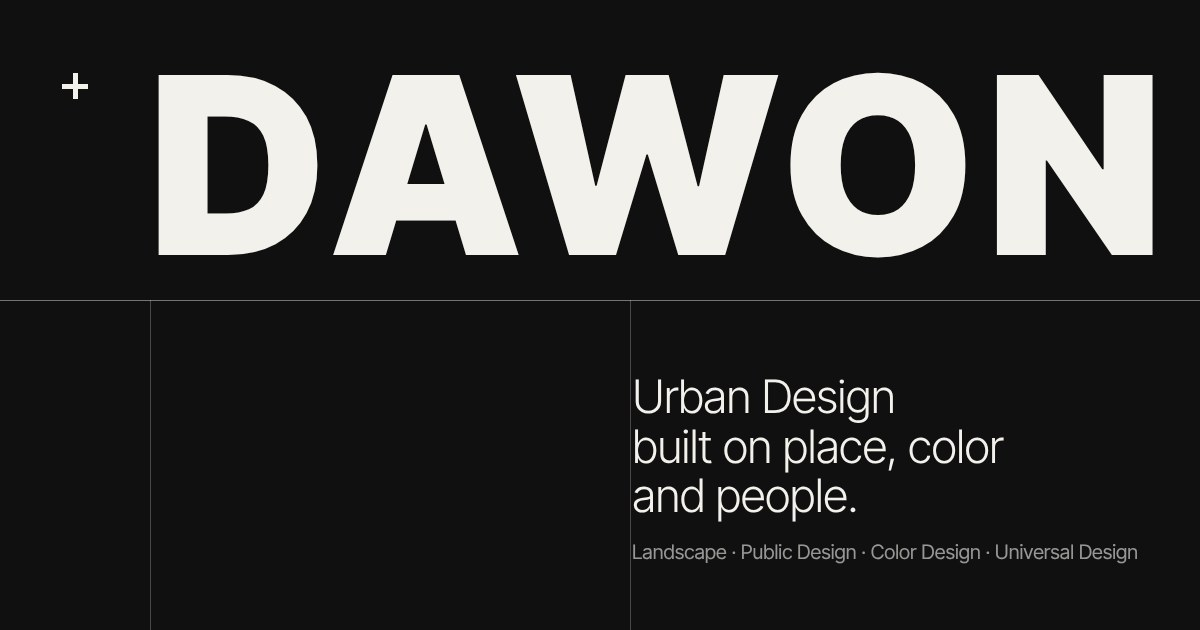
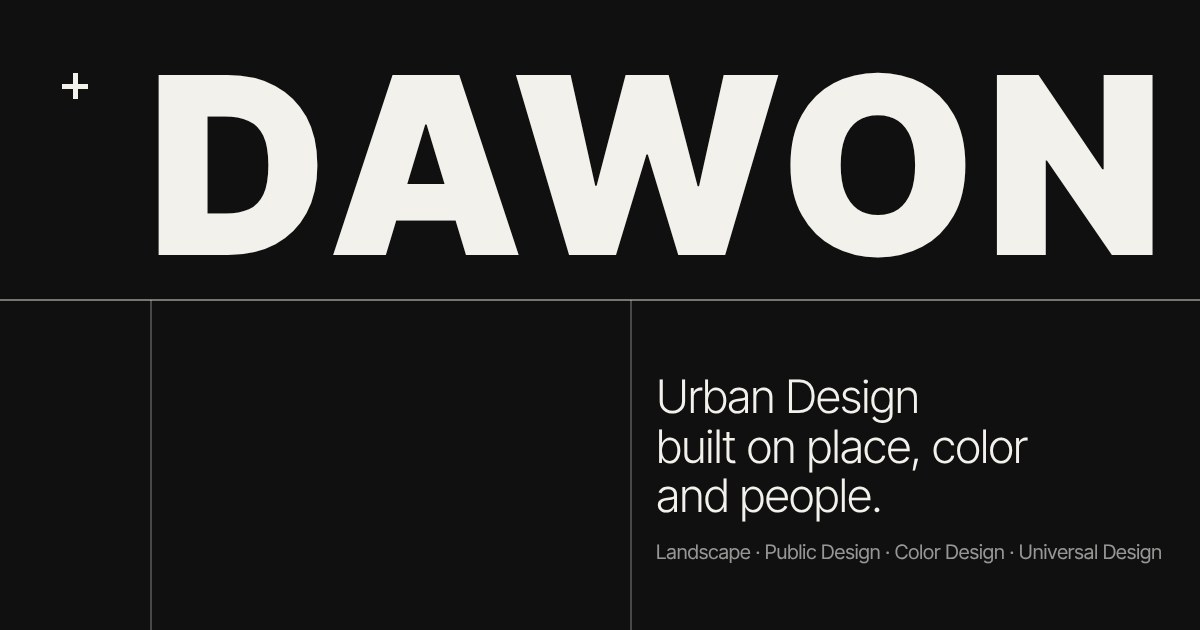
카톡 썸네일: 선 두께 1.5배, 글자 4줄을 선에서 더 띄움 (홈페이지 화면은 변경 없음)
Claude-Session: https://claude.ai/code/session_013p8h8YHUHC8X9DhkChiQGQ

Changed region(s): [[0.5242, 0.6032, 0.8633, 0.8143], [0.5242, 0.8444, 0.9558, 0.9048]]

diff --git a/site/index.html b/site/index.html
@@ -10,7 +10,7 @@
 <meta property="og:description" content="다원 도시디자인은 경관, 공공디자인, 색채디자인, 유니버설디자인을 하는 도시디자인 전문 회사입니다.">
 <meta property="og:type" content="website">
 <meta property="og:url" content="https://www.dawonud.com/">
-<meta property="og:image" content="https://www.dawonud.com/assets/img/og-image.jpg?v=4">
+<meta property="og:image" content="https://www.dawonud.com/assets/img/og-image.jpg?v=5">
 <meta property="og:image:width" content="1200">
 <meta property="og:image:height" content="630">
 <meta name="twitter:card" content="summary_large_image">

diff --git a/site/projects.html b/site/projects.html
@@ -9,7 +9,7 @@
 <meta property="og:title" content="사업실적 | 다원 도시디자인">
 <meta property="og:description" content="다원 도시디자인이 수행한 경관, 공공디자인, 색채디자인, 유니버설디자인 사업 실적입니다.">
 <meta property="og:type" content="website">
-<meta property="og:image" content="https://www.dawonud.com/assets/img/og-image.jpg?v=4">
+<meta property="og:image" content="https://www.dawonud.com/assets/img/og-image.jpg?v=5">
 <meta property="og:image:width" content="1200">
 <meta property="og:image:height" content="630">
 <meta name="twitter:card" content="summary_large_image">

diff --git a/site/business.html b/site/business.html
@@ -9,7 +9,7 @@
 <meta property="og:title" content="사업분야 | 다원 도시디자인">
 <meta property="og:description" content="경관, 공공디자인, 색채디자인, 유니버설디자인 4개 분야의 업무를 소개합니다.">
 <meta property="og:type" content="website">
-<meta property="og:image" content="https://www.dawonud.com/assets/img/og-image.jpg?v=4">
+<meta property="og:image" content="https://www.dawonud.com/assets/img/og-image.jpg?v=5">
 <meta property="og:image:width" content="1200">
 <meta property="og:image:height" content="630">
 <meta name="twitter:card" content="summary_large_image">

diff --git a/site/careers.html b/site/careers.html
@@ -9,7 +9,7 @@
 <meta property="og:title" content="채용 | 다원 도시디자인">
 <meta property="og:description" content="다원 도시디자인과 함께 도시의 풍경을 만들 사람을 찾습니다.">
 <meta property="og:type" content="website">
-<meta property="og:image" content="https://www.dawonud.com/assets/img/og-image.jpg?v=4">
+<meta property="og:image" content="https://www.dawonud.com/assets/img/og-image.jpg?v=5">
 <meta property="og:image:width" content="1200">
 <meta property="og:image:height" content="630">
 <meta name="twitter:card" content="summary_large_image">

diff --git a/site/about.html b/site/about.html
@@ -9,7 +9,7 @@
 <meta property="og:title" content="회사소개 | 다원 도시디자인">
 <meta property="og:description" content="다원 도시디자인의 회사 개요와 자문 활동을 소개합니다.">
 <meta property="og:type" content="website">
-<meta property="og:image" content="https://www.dawonud.com/assets/img/og-image.jpg?v=4">
+<meta property="og:image" content="https://www.dawonud.com/assets/img/og-image.jpg?v=5">
 <meta property="og:image:width" content="1200">
 <meta property="og:image:height" content="630">
 <meta name="twitter:card" content="summary_large_image">

diff --git a/site/news.html b/site/news.html
@@ -9,7 +9,7 @@
 <meta property="og:title" content="소식 | 다원 도시디자인">
 <meta property="og:description" content="다원 도시디자인의 공지사항과 수주·수상 소식입니다.">
 <meta property="og:type" content="website">
-<meta property="og:image" content="https://www.dawonud.com/assets/img/og-image.jpg?v=4">
+<meta property="og:image" content="https://www.dawonud.com/assets/img/og-image.jpg?v=5">
 <meta property="og:image:width" content="1200">
 <meta property="og:image:height" content="630">
 <meta name="twitter:card" content="summary_large_image">

diff --git a/site/contact.html b/site/contact.html
@@ -9,7 +9,7 @@
 <meta property="og:title" content="Contact us | 다원 도시디자인">
 <meta property="og:description" content="다원 도시디자인 문의하기와 오시는 길입니다.">
 <meta property="og:type" content="website">
-<meta property="og:image" content="https://www.dawonud.com/assets/img/og-image.jpg?v=4">
+<meta property="og:image" content="https://www.dawonud.com/assets/img/og-image.jpg?v=5">
 <meta property="og:image:width" content="1200">
 <meta property="og:image:height" content="630">
 <meta name="twitter:card" content="summary_large_image">

diff --git a/site/privacy.html b/site/privacy.html
@@ -9,7 +9,7 @@
 <meta property="og:title" content="개인정보처리방침 | 다원 도시디자인">
 <meta property="og:description" content="다원 도시디자인 개인정보처리방침">
 <meta property="og:type" content="website">
-<meta property="og:image" content="https://www.dawonud.com/assets/img/og-image.jpg?v=4">
+<meta property="og:image" content="https://www.dawonud.com/assets/img/og-image.jpg?v=5">
 <meta property="og:image:width" content="1200">
 <meta property="og:image:height" content="630">
 <meta name="twitter:card" content="summary_large_image">

diff --git a/site/thanks.html b/site/thanks.html
@@ -9,7 +9,7 @@
 <meta property="og:title" content="문의 접수 완료 | 다원 도시디자인">
 <meta property="og:description" content="문의가 접수되었습니다.">
 <meta property="og:type" content="website">
-<meta property="og:image" content="https://www.dawonud.com/assets/img/og-image.jpg?v=4">
+<meta property="og:image" content="https://www.dawonud.com/assets/img/og-image.jpg?v=5">
 <meta property="og:image:width" content="1200">
 <meta property="og:image:height" content="630">
 <meta name="twitter:card" content="summary_large_image">
